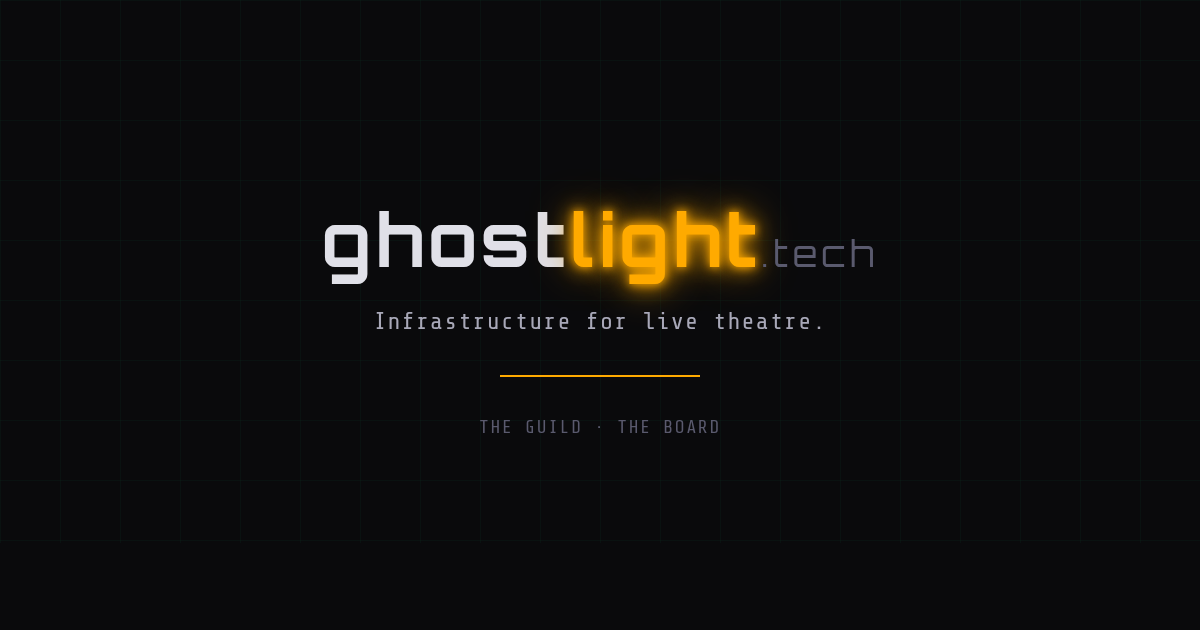
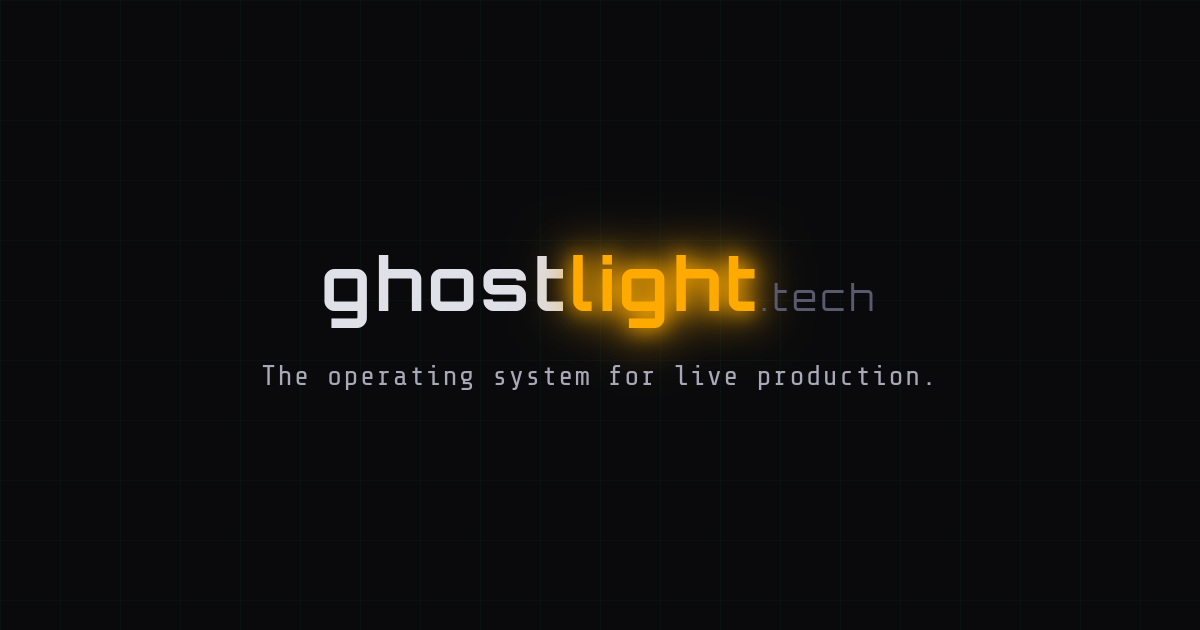
Rebrand: OS for live production, 2-column desktop layout
- Update tagline to 'The operating system for live production'
- Change section label from 'products' to 'modules'
- Rewrite product descriptions as solution-focused
- Tighten founder bio
- Add desktop 2-column layout at 1024px breakpoint
- Make changelogs collapsible with details/summary
- Update OG image with new tagline

Changed region(s): [[0.2158, 0.3016, 0.7708, 0.6333], [0.5242, 0.6635, 0.6167, 0.6937], [0.4008, 0.6635, 0.4933, 0.6937]]

diff --git a/index.html b/index.html
@@ -3,22 +3,22 @@
 <head>
     <meta charset="UTF-8">
     <meta name="viewport" content="width=device-width, initial-scale=1.0">
-    <title>ghostlight.tech — Live theatre infrastructure, Vancouver</title>
-    <meta name="description" content="Ghostlight is the software studio of Vincent Keats. Currently building tools for theatre and live events.">
+    <title>ghostlight.tech — The operating system for live production</title>
+    <meta name="description" content="The operating system for live production. Modular software for casting, crew dispatch, and production management.">
 
     <!-- OpenGraph -->
     <meta property="og:type" content="website">
     <meta property="og:url" content="https://ghostlight.tech">
-    <meta property="og:title" content="ghostlight.tech — Live theatre infrastructure, Vancouver">
-    <meta property="og:description" content="Software studio of Vincent Keats. Building The Guild (casting) and The Board (dispatch) for Vancouver's theatre community.">
+    <meta property="og:title" content="ghostlight.tech — The operating system for live production">
+    <meta property="og:description" content="The operating system for live production. Modular software for casting, crew dispatch, and production management.">
     <meta property="og:image" content="https://ghostlight.tech/assets/og-image.png">
     <meta property="og:image:width" content="1200">
     <meta property="og:image:height" content="630">
 
     <!-- Twitter Card -->
     <meta name="twitter:card" content="summary_large_image">
-    <meta name="twitter:title" content="ghostlight.tech — Live theatre infrastructure, Vancouver">
-    <meta name="twitter:description" content="Software studio of Vincent Keats. Building The Guild (casting) and The Board (dispatch) for Vancouver's theatre community.">
+    <meta name="twitter:title" content="ghostlight.tech — The operating system for live production">
+    <meta name="twitter:description" content="The operating system for live production. Modular software for casting, crew dispatch, and production management.">
     <meta name="twitter:image" content="https://ghostlight.tech/assets/og-image.png">
 
     <link rel="canonical" href="https://ghostlight.tech">
@@ -35,12 +35,12 @@
                 <span class="logo__text--ghost">ghost</span><span class="logo__text--light">light</span><span class="logo__text--tech">.tech</span>
             </span>
         </h1>
-        <p class="tagline">Infrastructure for live theatre.</p>
+        <p class="tagline">The operating system for live production.</p>
     </header>
 
     <main class="container">
         <section class="products" aria-labelledby="products-label">
-            <h2 class="section-label" id="products-label">// products</h2>
+            <h2 class="section-label" id="products-label">// modules</h2>
             <article class="card product product--guild">
                 <div class="product__header">
                     <div class="product__title-row">
@@ -49,15 +49,15 @@
                     </div>
                     <span class="product__status">preview</span>
                 </div>
-                <p class="product__problem">Casting directors drowning in email submissions, spreadsheet shortlists, and 2am callback scheduling.</p>
+                <p class="product__problem">Pre-production: streamlined auditions, collaborative shortlisting, and callback scheduling in one place.</p>
                 <ul class="product__features">
                     <li>Collect submissions online</li>
                     <li>Review, rate & shortlist with your team</li>
                     <li>Schedule callbacks with confirm/decline tracking</li>
                     <li>Early access — testing with Vancouver companies</li>
                 </ul>
-                <aside class="changelog">
-                    <h3 class="changelog__label">// recent updates</h3>
+                <details class="changelog">
+                    <summary class="changelog__label">changelog</summary>
                     <ul class="changelog__list">
                         <li>Session management CRUD, production settings</li>
                         <li>About page redesign, email verification</li>
@@ -66,7 +66,7 @@
                         <li>Google Drive-style file manager</li>
                     </ul>
                     <p class="changelog__summary">180+ commits since Sept 2024</p>
-                </aside>
+                </details>
                 <p class="product__stack">Next.js · TypeScript · PostgreSQL · Drizzle · Stripe · Vercel</p>
                 <a href="https://www.the-guild.app/about" class="product__link" target="_blank" rel="noopener">Learn more →</a>
             </article>
@@ -79,15 +79,15 @@
                     </div>
                     <span class="product__status">production</span>
                 </div>
-                <p class="product__problem">Dispatchers juggling 6 tools—Excel, SMS apps, shared drives—to fill 80 shows a month.</p>
+                <p class="product__problem">Operations: crew dispatch, skill matching, and seniority enforcement — from load-in to strike.</p>
                 <ul class="product__features">
                     <li>Bulk SMS dispatch with seniority enforcement</li>
                     <li>Skill matching across 38,000+ records</li>
                     <li>Conflict detection & audit trail</li>
                     <li>In production at IATSE Local 118 since June 2024</li>
                 </ul>
-                <aside class="changelog">
-                    <h3 class="changelog__label">// recent updates</h3>
+                <details class="changelog">
+                    <summary class="changelog__label">changelog</summary>
                     <ul class="changelog__list">
                         <li>Security update (CVE patches)</li>
                         <li>CallSteward sync with progress tracking</li>
@@ -96,7 +96,7 @@
                         <li>Unified auth, landing page redesign</li>
                     </ul>
                     <p class="changelog__summary">178 API routes · 56 tables</p>
-                </aside>
+                </details>
                 <p class="product__stack">Next.js · TypeScript · SQLite · Twilio · WebSocket · Tailwind</p>
                 <a href="https://the-board.app/landing" class="product__link" target="_blank" rel="noopener">Learn more →</a>
             </article>
@@ -109,8 +109,7 @@
                 <h2 class="about__name">Vincent Keats</h2>
                 <div class="about__bio">
                     <p class="typewriter" data-delay="0">Software engineer and actor based in Vancouver.</p>
-                    <p class="typewriter" data-delay="1">Ghostlight started in 2024 while working as a dispatcher at IATSE Local 118. The Board was built to automate the job, cutting dispatch time from 45 minutes to 5. What began as a personal tool now manages 3,400+ workers across hundreds of shows. The Guild followed, bringing the same thinking to casting and creative teams.</p>
-                    <p class="typewriter" data-delay="2">Studied theatre at CCPA, then learned to code through Harvard's CS50 and #100Devs while dispatching full-time. Still performs in the same theatres the software supports.</p>
+                    <p class="typewriter" data-delay="1">Ghostlight started in 2024 while dispatching at IATSE Local 118. Built The Board to automate crew dispatch — now managing 3,400+ workers across hundreds of shows. The Guild followed, applying the same approach to casting and creative teams.</p>
                 </div>
                 <form class="contact-form" action="https://formspree.io/f/xblnenyb" method="POST" aria-label="Contact form">
                     <div class="contact-form__row">

diff --git a/styles.css b/styles.css
@@ -317,12 +317,35 @@ header {
 
 .changelog__label {
     font-size: 0.7rem;
-    color: var(--rust);
+    color: var(--steel);
     letter-spacing: 0.1em;
-    margin-bottom: 10px;
+    cursor: pointer;
+    list-style: none;
+    display: flex;
+    align-items: center;
+    gap: 6px;
+}
+
+.changelog__label::-webkit-details-marker {
+    display: none;
+}
+
+.changelog__label::before {
+    content: '+';
+    color: var(--product-color);
+    font-size: 0.8rem;
+}
+
+.changelog[open] .changelog__label::before {
+    content: '−';
+}
+
+.changelog__label:hover {
+    color: var(--chrome);
 }
 
 .changelog__list {
+    margin-top: 10px;
     list-style: none;
 }
 
@@ -518,6 +541,34 @@ footer {
     .about__bio .typewriter { animation: none; }
     .about__bio .typewriter { opacity: 1; }
     .product, .product__link, .contact-form__submit, .footer__nav a { transition: none; }
+}
+
+/* Desktop - 2 column products */
+@media (min-width: 1024px) {
+    .container {
+        max-width: 1080px;
+    }
+
+    header {
+        max-width: 1080px;
+    }
+
+    footer {
+        max-width: 1080px;
+    }
+
+    .products {
+        flex-direction: row;
+        flex-wrap: wrap;
+    }
+
+    .section-label {
+        width: 100%;
+    }
+
+    .product {
+        flex: 1;
+    }
 }
 
 /* Mobile */
